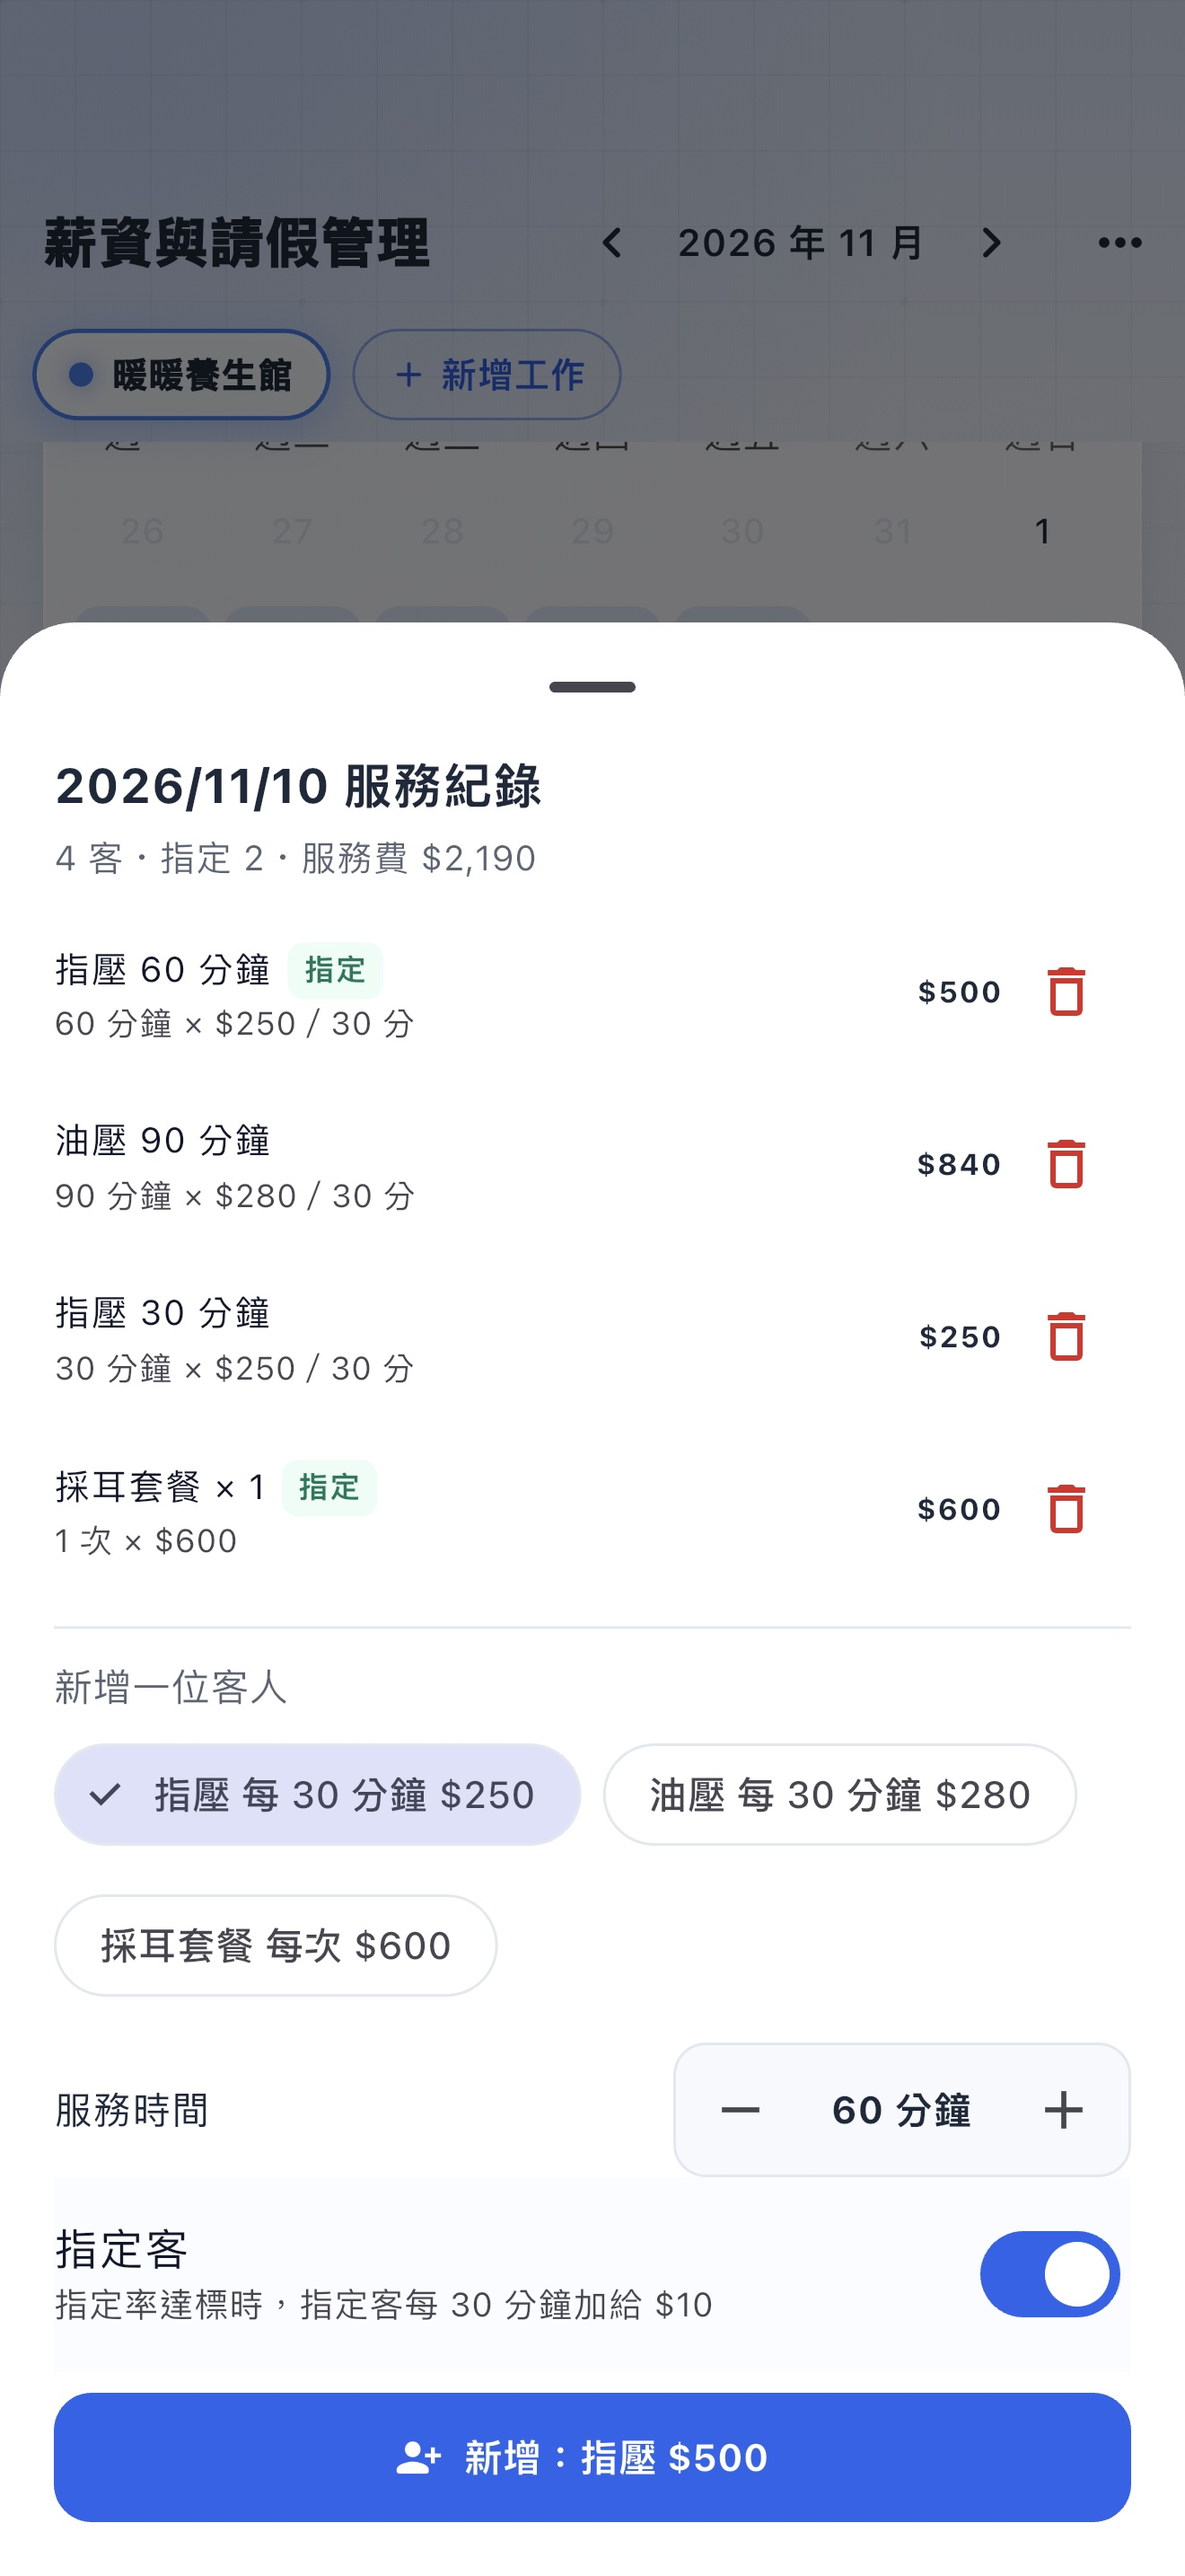
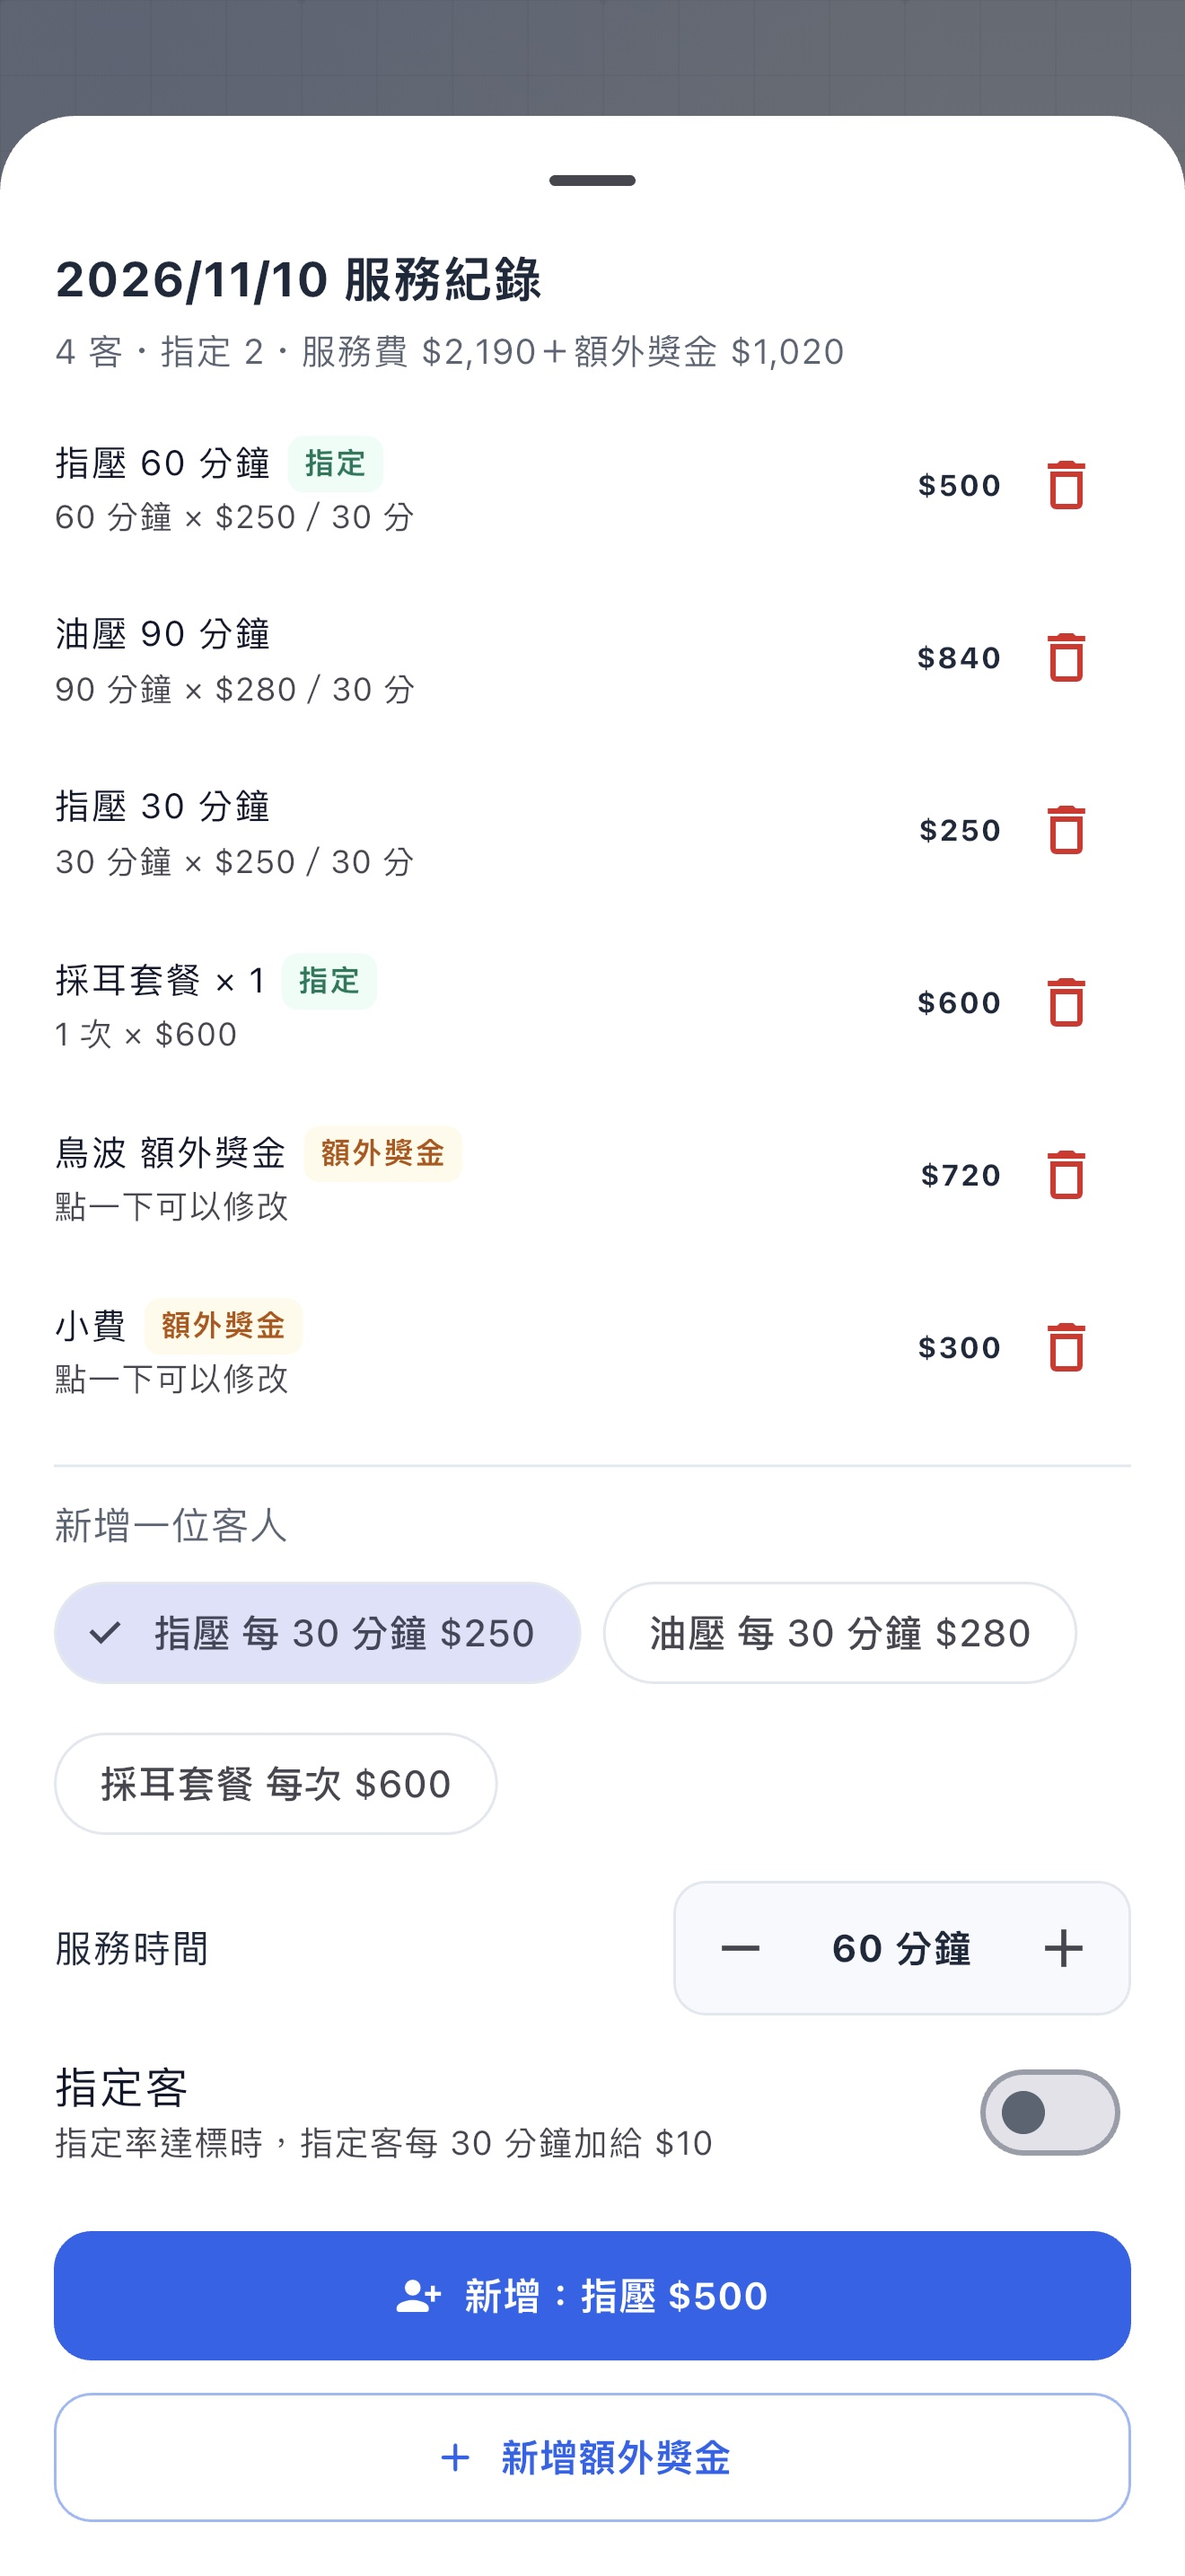
更新：按件計酬新增每日額外獎金；服務紀錄截圖換成新版

diff --git a/README.md b/README.md
@@ -33,7 +33,7 @@
 | 請假與特休 | 14 種假別票卡（法定額度、已請、剩餘）；全勤獎金依 2026 年新版勞工請假規則按比例扣減；特休年資與未休工資結算 |
 | 勞基法照妖鏡 | 連續出勤、單日超時、月加班超過 46 小時、全勤多扣等即時警示，附法條與罰則 |
 | 多份工作 | 兼職族可建立多份工作各自算薪，大盤顯示全部合計 |
-| 按件計酬 | 沒有底薪、做一位客人算一位的工作（例如按摩）：建立價目表（按時間或按次），每天在月曆記錄客人；受僱者依勞基法換算平日每小時工資額、檢查最低工資、計算有薪假，承攬者試算執行業務所得扣繳與二代健保；指定率達標時指定客另有加給（可依客數或時數計算） |
+| 按件計酬 | 沒有底薪、做一位客人算一位的工作（例如按摩）：建立價目表（按時間或按次），每天在月曆記錄客人，金額不固定的額外獎金也能當天自行輸入；受僱者依勞基法換算平日每小時工資額、檢查最低工資、計算有薪假，承攬者試算執行業務所得扣繳與二代健保；指定率達標時指定客另有加給（可依客數或時數計算） |
 | 彈性時薪 | 時薪＋每小時加給（每月可不同）、指定日加給、期間達標獎金（例如期間出勤獎金、久任獎勵金）、單日工時獎金（逐級累加或只取最高一級，依公司規範選擇） |
 | 資料安全 | 本機加密儲存、Face ID／指紋鎖、AES-256-GCM 加密備份檔 |
 | 介面 | 霧面科技風、14 款漸層主題、深色模式、大字體、懸浮毛玻璃導覽列、首次開啟功能導覽 |
@@ -59,9 +59,9 @@
 |---|---|---|
 | ![期間達標獎金](screenshots/10_period_bonus.jpg) | ![單日工時獎金](screenshots/11_daily_bonus.jpg) | ![加班費對帳](screenshots/12_overtime_compare.jpg) |
 
-| 按件計酬價目表 | 服務紀錄 | 指定率加給 |
+| 按件計酬價目表 | 服務紀錄與額外獎金 | 指定率加給 |
 |---|---|---|
-| ![按件計酬價目表](screenshots/13_piece_rate.jpg) | ![服務紀錄](screenshots/14_service_records.jpg) | ![指定率加給](screenshots/15_designation.jpg) |
+| ![按件計酬價目表](screenshots/13_piece_rate.jpg) | ![服務紀錄與額外獎金](screenshots/14_service_records.jpg) | ![指定率加給](screenshots/15_designation.jpg) |
 
 （截圖為示範資料，公司名稱為虛構。）
 
@@ -127,13 +127,14 @@ App 預覽影片：[app_preview.mp4](screenshots/app_preview.mp4)
 | **每年改法規數字時，很怕改壞其他計算** | 先建立特性測試：19 組代表性設定 × 4 個月的完整輸出存成基準，再把年度數字搬到單一設定檔；重構後每個金額都必須和基準逐欄相同 |
 | **按件計酬的法規和月薪、時薪很不一樣**：受僱與承攬適用完全不同的規則，加班時段做的客人也已經算進服務費 | 先和使用者確認身分、指定率算法與套餐是否計入等規則，再依法條設計：受僱者以平日每小時工資額計算，加班費只另加給加成的部分；承攬者不投保勞健保、改算執行業務所得扣繳。法規解讀可能因個案而異的地方，都在 App 內附上依據並提示以主管機關認定為準 |
 | **在已上架的 App 加入全新的薪資制度，不能影響任何舊使用者** | 薪資制度用 enum 搭配 exhaustive switch，新增一種制度時編譯器會列出每一處要補的地方；原本 76 筆特性測試基準逐欄不變，新案例只新增不修改；新舊兩版的存檔都留有固定樣本，確保之後的版本都讀得出來 |
+| **使用者要求「額外獎金的算法必須和本月獎金一致」** | 不另寫一套扣稅與二代健保的計算，而是把額外獎金轉成既有的獎金資料型別、送進同一套計算，從結構上保證一致；測試用同一筆金額分別當兩種獎金，比對稅、補充保費、級距、加班費、實領全部相同 |
 | **「看起來沒對齊」很難靠肉眼抓** | 寫了對齊稽核測試：自動把四個分頁捲到底，檢查每一列金額、開關、箭頭是否貼齊同一條線 |
 
 ---
 
 ## 測試方式
 
-- **單元與畫面測試：900 項以上**，每次提交與部署前都必須全部通過
+- **單元與畫面測試：1,000 項以上**，每次提交與部署前都必須全部通過
   - 勞基法計算：加班倍率、請假扣薪、全勤比例扣減、勞健保級距、二代健保、所得稅、特休年資、跨日班
   - 彈性時薪：以使用者回饋的實際數字建立測試案例（例如時薪 210＋加給 40 的加班 1 小時應為 335、公司算法 321.4；上滿 12 小時的分級獎金逐級累加 1,700、取最高 800）
   - 按件計酬：以使用者回饋的價目建立案例（指壓 60 分鐘 $500、油壓 30 分鐘 $280、套餐按次計價；指定率 60% 達標時只有指定客每 30 分鐘 +$10，59% 不加給；依客數與依時數兩種算法；承攬 $30,000 扣繳 $3,000、補充保費 $633）
